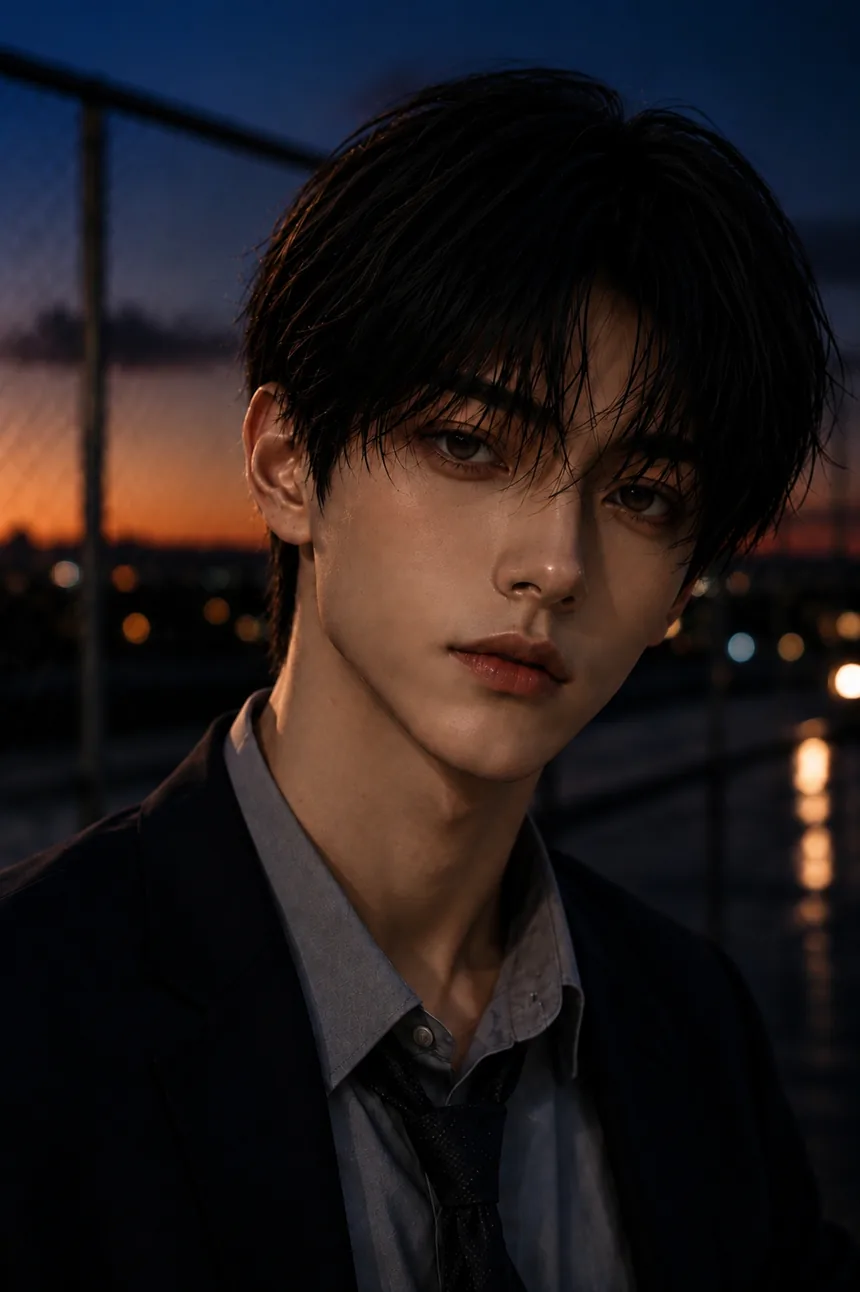
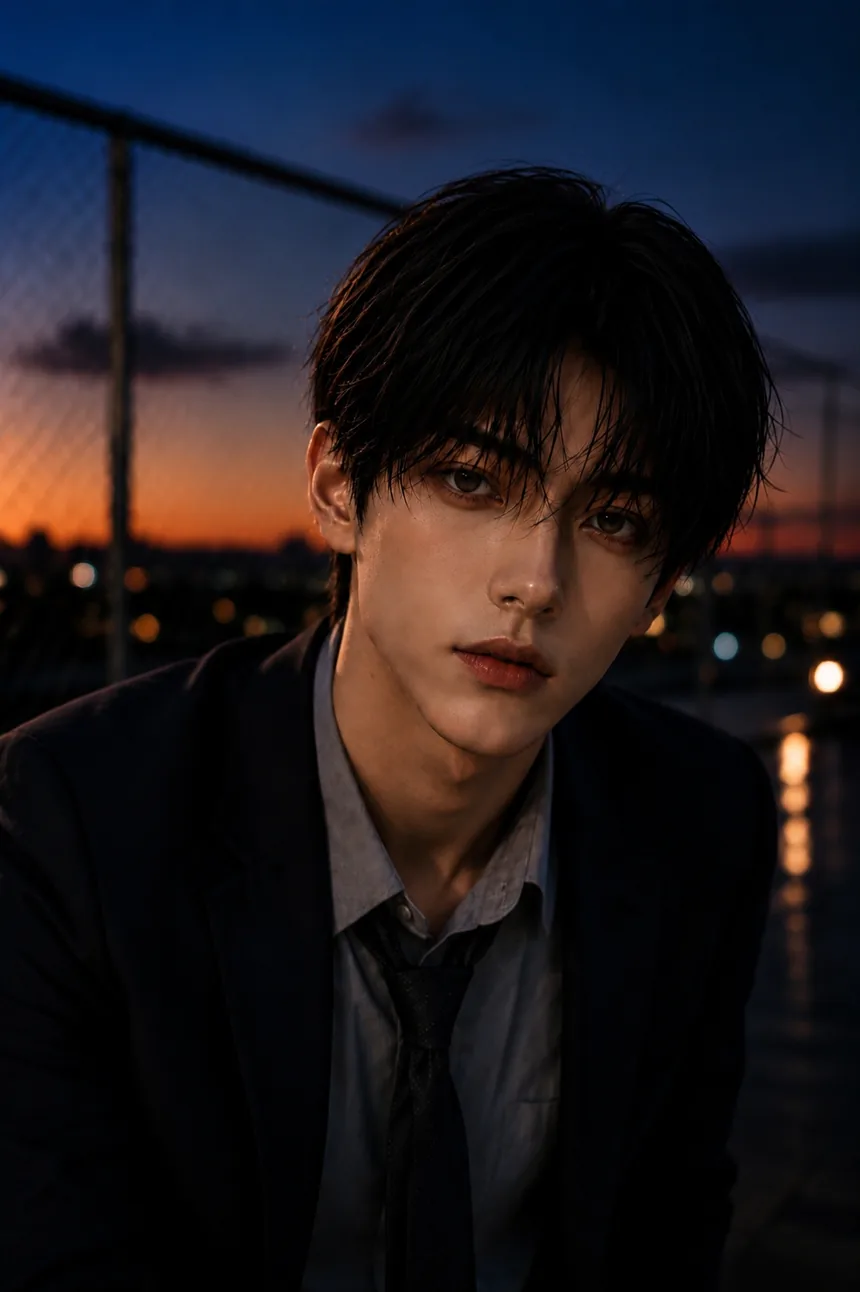
민현 체육관과 옥상 사진 교체

diff --git a/index.html b/index.html
@@ -16,7 +16,7 @@
 <script src="https://unpkg.com/react-dom@18/umd/react-dom.production.min.js"></script>
 <script src="https://unpkg.com/@babel/standalone@7/babel.min.js"></script>
 <!-- 데모 대사·매칭. 문구집에서 만들어진 파일이라 직접 고치지 않는다 -->
-<script src="demo-lines.js?v=200"></script>
+<script src="demo-lines.js?v=201"></script>
 <script>
 /* 리스타트의 뒷정리.
    지우고 바로 다시 여는 방식은 안 됐다 — 다시 열리기 전 몇 밀리초 사이에
@@ -66,16 +66,16 @@ try{
      고치고 올릴 때 네 개를 같이 올린다. 하나만 올리면 그 하나만 새것이 된다.
      ★ 이 넷 중 하나라도 고쳤으면 번호를 올린다. 안 올리면 배포는 됐는데
        사람은 안 고쳐졌다고 한다 — 두 번 겪었다. -->
-<link rel="stylesheet" href="null.css?v=200">
+<link rel="stylesheet" href="null.css?v=201">
 </head>
 <body>
 <div id="root"></div>
 <!-- 데이터·규칙. JSX가 없어서 바벨을 안 탄다 -->
-<script src="app-data.js?v=200"></script>
+<script src="app-data.js?v=201"></script>
 <!-- 화면 조각 — 아이콘·창·방 목록. JSX라 바벨을 탄다 -->
-<script type="text/babel" src="app-ui.js?v=200"></script>
+<script type="text/babel" src="app-ui.js?v=201"></script>
 <!-- 앱 — 상태를 들고 있는 곳 -->
-<script type="text/babel" src="app.js?v=200"></script>
+<script type="text/babel" src="app.js?v=201"></script>
 <template id="__bundler_thumbnail"><svg xmlns="http://www.w3.org/2000/svg" viewBox="0 0 100 100"><rect width="100" height="100" fill="#b8a5e3"/><text x="50" y="58" text-anchor="middle" font-family="monospace" font-size="26" letter-spacing="4" fill="#fff">NULL</text></svg></template>
 </body>
 </html>

diff --git a/null.css b/null.css
@@ -4824,6 +4824,8 @@ input.hlabel.hin::placeholder{color:#c3b6e4;letter-spacing:.12em}
  left:14% !important;top:302px !important;width:72% !important;height:38px !important;
  font-size:12.5px !important;letter-spacing:.04em !important}
 .youprofile .yourename .kao{font-size:11px;letter-spacing:0;white-space:nowrap}
+.youprofile .yourename,.youprofile .yourename .kao{
+ color:#fff !important;-webkit-text-fill-color:#fff !important}
 
 /* 상태와 엿보기는 알약 대신 타이틀바 키와 같은 짧은 사각 버튼이다. */
 .menubar .toolkey{

diff --git a/app-data.js b/app-data.js
@@ -408,7 +408,7 @@ const roomOf = id => ROOMS.find(r=>r.id===id);
    화면에는 옛 사물함이 그대로 떴다 — 브라우저가 같은 이름의 옛 파일을 계속
    쓴 것이다. index.html이 갈라진 파일에 붙이는 ?v= 와 같은 번호를 그림에도
    붙인다. 번호가 갈리면 시험이 잡는다. */
-const AV="?v=200";
+const AV="?v=201";
 const av=s=>s?s+AV:s;
 
 /* 사진: 백엔드가 보내는 key ↔ 실제 파일(key.webp). 목록에 없는 key는 무시한다. */

diff --git a/app/lib/rules.ts b/app/lib/rules.ts
@@ -417,7 +417,7 @@ const roomOf = id => ROOMS.find(r=>r.id===id);
    화면에는 옛 사물함이 그대로 떴다 — 브라우저가 같은 이름의 옛 파일을 계속
    쓴 것이다. index.html이 갈라진 파일에 붙이는 ?v= 와 같은 번호를 그림에도
    붙인다. 번호가 갈리면 시험이 잡는다. */
-const AV="?v=200";
+const AV="?v=201";
 const av=s=>s?s+AV:s;
 
 /* 사진: 백엔드가 보내는 key ↔ 실제 파일(key.webp). 목록에 없는 key는 무시한다. */
